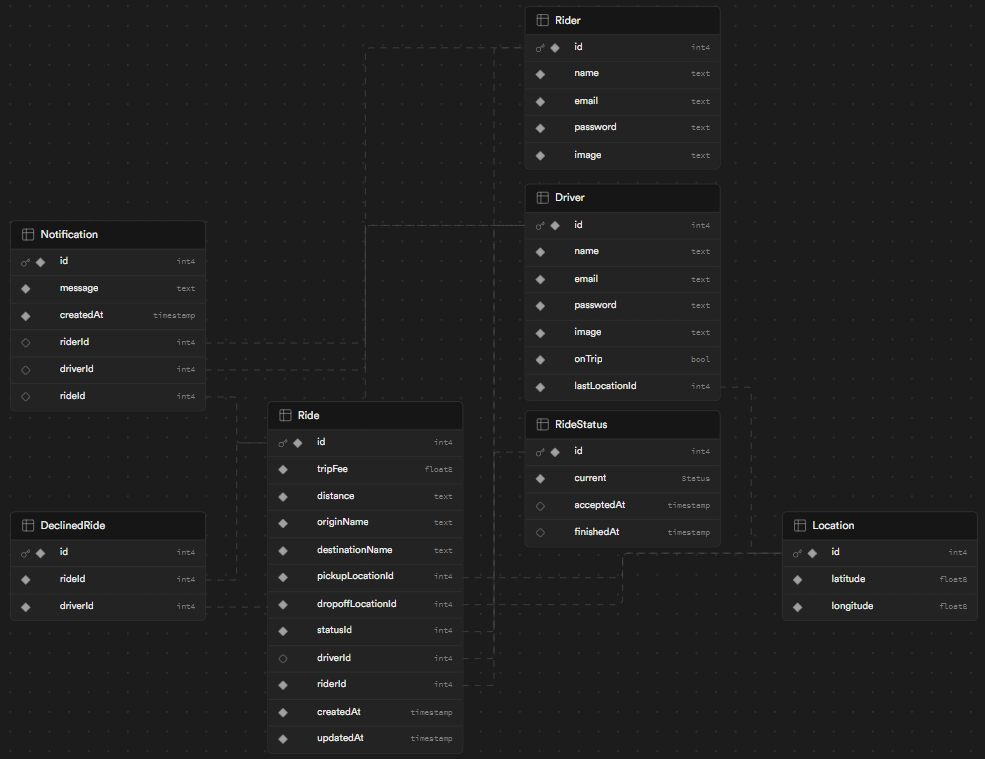
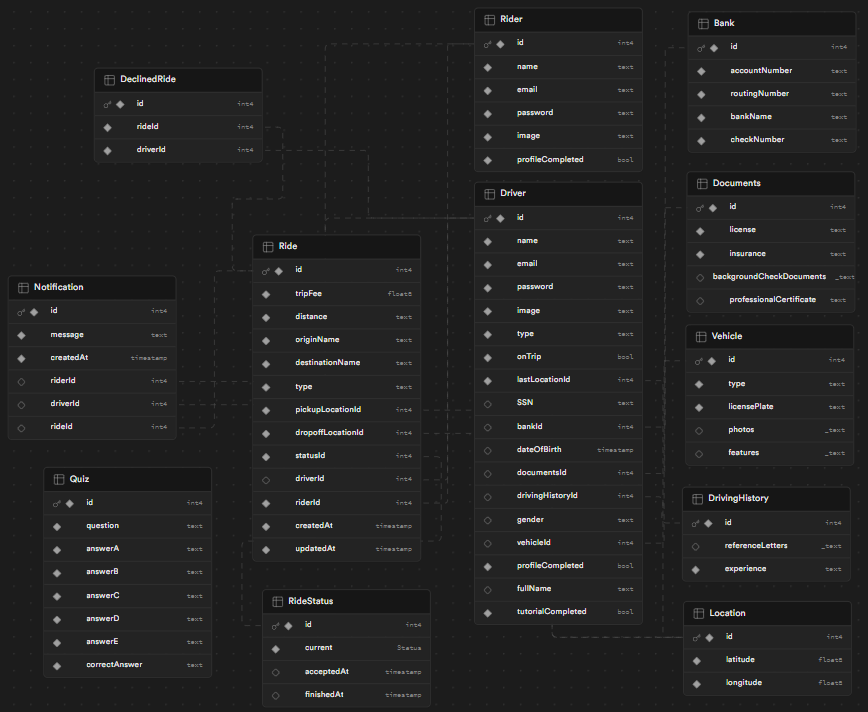
docs(README): updated schema, changed links and described new features

diff --git a/README.md b/README.md
@@ -51,7 +51,7 @@ I also decided to focus more on the front-end and design. The feature I found to
 
 Features reusable components, utils, custom hooks built with memoization techniques, caching, automatic re-fetching, end to end type-safe communication.
 
-I've developed the project within a week + couple days for bug fixes/refactoring/refining and estimate that it took about 44 hours in total, split between studying which tools to use, developing, and testing. Having to attend work while also taking care of some development and deployments at the same time made this challenge a bit more difficult. There is still room for improvement, but overall, I am really glad for what has already been accomplished.
+I've developed the initial project within a week + couple days for bug fixes/refactoring/refining and estimate that it took about 44 hours in total, split between studying which tools to use, developing, and testing. Having to attend work while also taking care of some development and deployments at the same time made this challenge a bit more difficult. There is still room for improvement, but overall, I am really glad for what has already been accomplished.
 
 - **Ride Request Process:**
 
@@ -79,6 +79,7 @@ I've developed the project within a week + couple days for bug fixes/refactoring
   - Clear communication of ride details, including pickup and dropoff locations.
   - Notifications about the ride status changes.
   - Minimal user interactions to ensure a smooth experience.
+  - Multi-step onboarding and training flow for drivers.
 
 ## Risk and Unknowns
 
@@ -142,7 +143,7 @@ I've developed the project within a week + couple days for bug fixes/refactoring
 
 > In order to run locally download the .env file from the gist, or copy all its content and place in a .env file in the root of the project.
 
-[Here is the .env file to run the app locally](https://gist.github.com/le0piovesan/666b6b96e89484987bcd60bf5b83c6f6) 🔐
+[Here is the .env file to run the app locally](https://gist.github.com/le0piovesan/52ae22edbd8b0b75f2d1fdb894bf460e) 🔐
 
 Then run the following script to install dependencies, build and start the app:
 
@@ -155,3 +156,5 @@ npm install && npm run build-start
 [Here is the link of the deployable app](https://goober-three.vercel.app/) 🚀
 
 [Here is a quick video showing the features](https://youtu.be/w_8UuD_2oKA) 👀
+
+[Here is another video displaying the new onboarding/training features](https://www.youtube.com/watch?v=cJZIwk_HUQw) 👀
